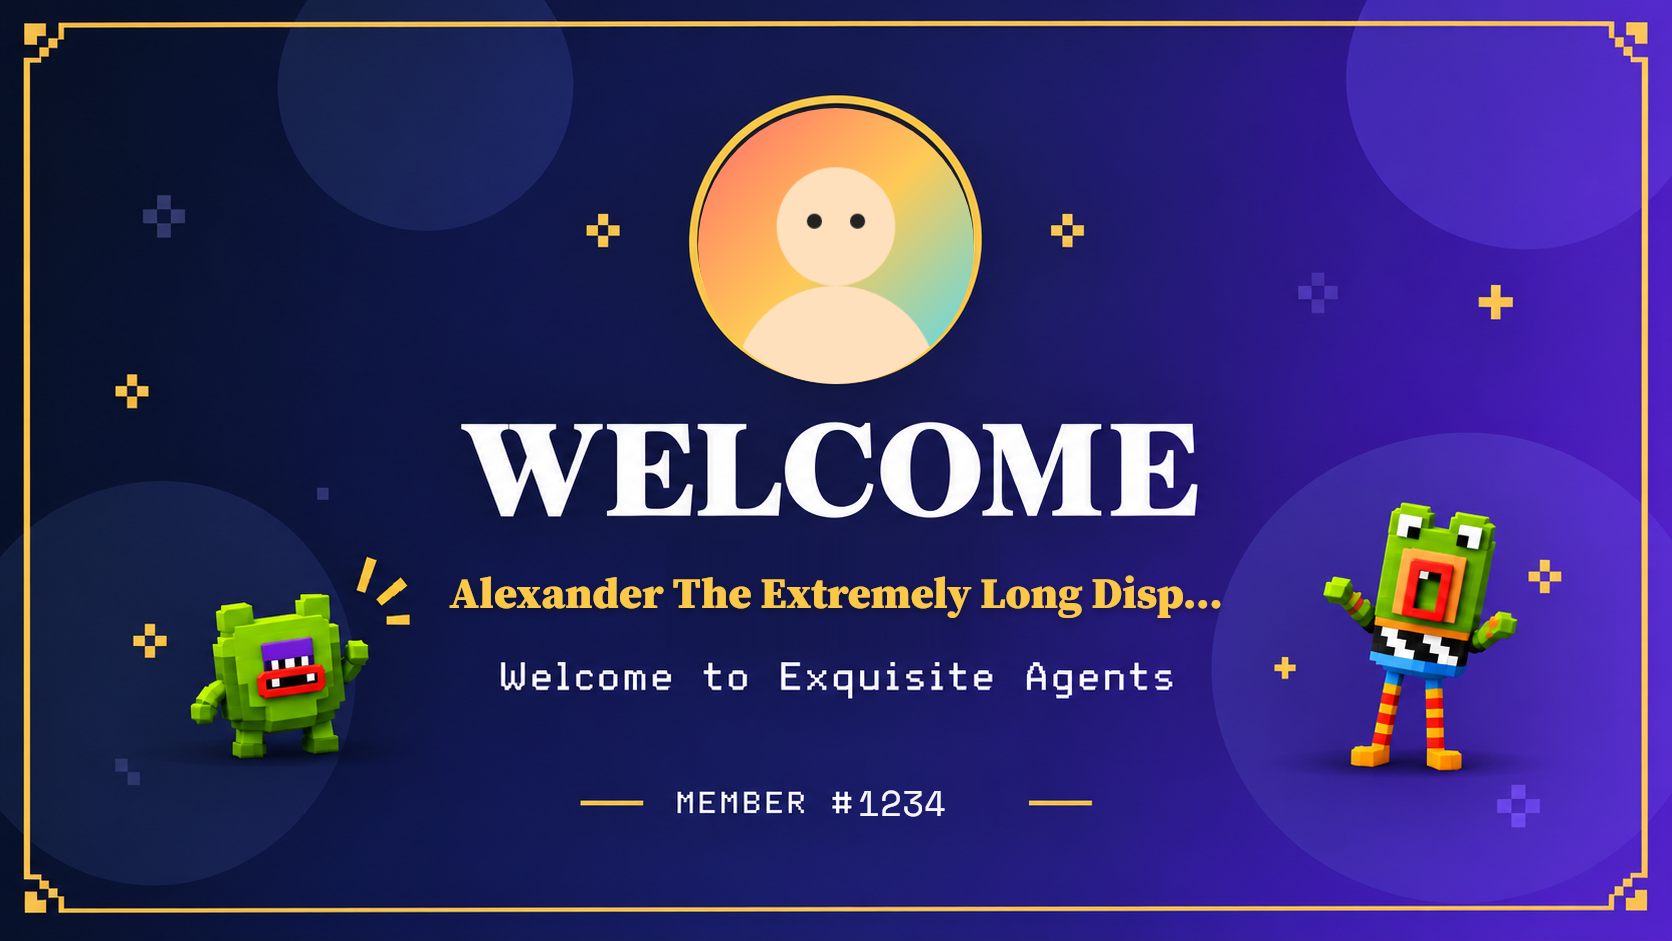
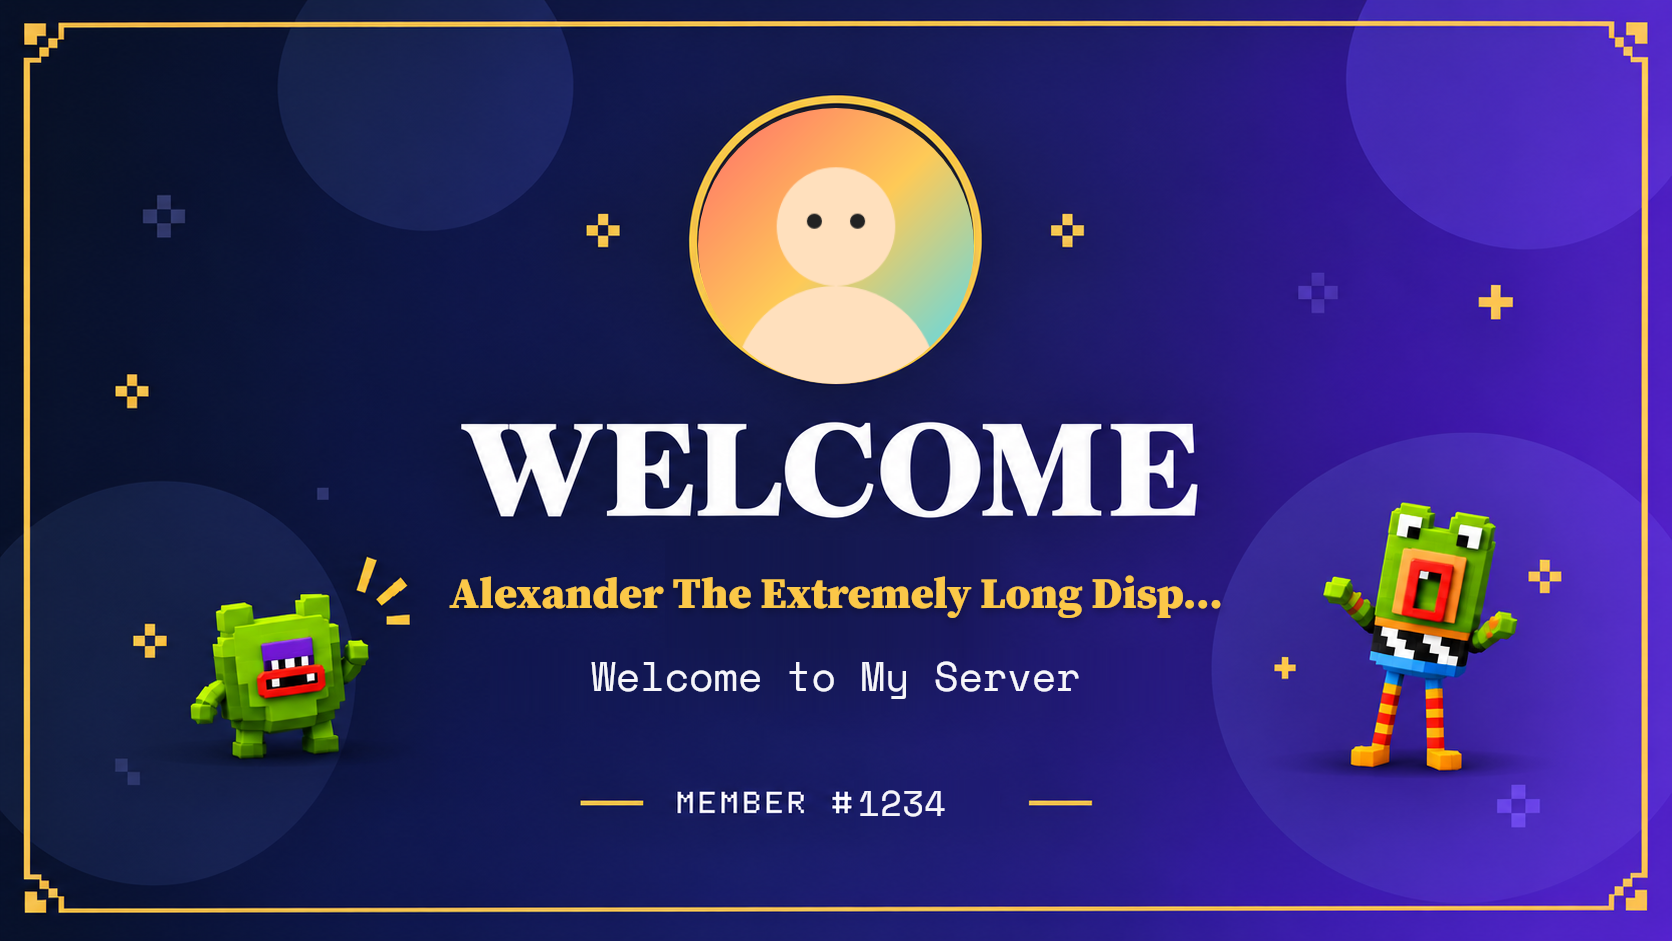
Generic Welcome Bot: remove Exquisite branding, dynamic template subtitle

Changed region(s): [[0.2799, 0.7088, 0.7153, 0.7396]]

diff --git a/test/test.js b/test/test.js
@@ -14,7 +14,7 @@ function mkChannel(perms = ALL) {
 function mkMember(id, ch, name = 'Rudra The Very Long Display Name That Should Be Truncated Nicely') {
   return { id, displayName: name, user: { username: 'rudra_' + id, bot: false, defaultAvatarURL: 'https://cdn.discordapp.com/embed/avatars/0.png' },
     displayAvatarURL: () => `https://cdn.discordapp.com/avatars/${id}/x.png?size=256`,
-    guild: { id: 'g1', name: 'Exquisite', memberCount: 1234, members: { me: {} },
+    guild: { id: 'g1', name: 'Test Server', memberCount: 1234, members: { me: {} },
       channels: { cache: new Map([[ch.id, ch]]), fetch: async () => null } } };
 }
 const avatarFetcher = async () => { const c = createCanvas(256, 256); const x = c.getContext('2d'); x.fillStyle = '#e11d48'; x.fillRect(0, 0, 256, 256); return c.toBuffer('image/png'); };
@@ -27,7 +27,7 @@ let pass = 0; const t = async (n, f) => { await f(); pass++; console.log('✔', 
   await t('mention + placeholders', async () => {
     const ch = mkChannel(); const r = await handleJoin(mkMember('111', ch), cfg, { logger: quiet, fetcher: avatarFetcher, ...aiNull });
     assert(r.sent); assert.strictEqual(r.imageKind, 'template'); const p = ch.sent[0];
-    assert(p.content.startsWith('Welcome <@111>!')); assert(p.content.includes('**Exquisite**')); assert(p.content.includes('#1234'));
+    assert(p.content.startsWith('Welcome <@111>!')); assert(p.content.includes('**Test Server**')); assert(p.content.includes('#1234'));
     assert(!/\{\w+\}/.test(p.content)); assert.deepStrictEqual(p.allowedMentions.users, ['111']);
     assert.strictEqual(p.files[0].name, 'welcome.png');
     const buf = p.files[0].attachment; assert(buf.subarray(1, 4).toString() === 'PNG');

diff --git a/src/config.js b/src/config.js
@@ -8,8 +8,8 @@ const DEFAULTS = {
   ai: { enabled: true, dailyLimit: 0, scene: 'ai/scene.jpg', crop: { x: 684, y: 0, w: 512, h: 512 }, box: { x: 815, y: 85, w: 250, h: 265 }, timeoutMs: 25000 },
   image: {
     enabled: true, background: 'assets/template.png', fallbackBackground: 'assets/background.png',
-    template: {"avatar": {"x": 836, "y": 246, "r": 138, "placeholderColor": "#5865F2"}, "name": {"x": 836, "y": 592, "maxWidth": 780, "fontSize": 92, "minFontSize": 44, "color": "#FBC848", "font": "WelcomeSerif, serif", "fontWeight": "bold"}, "count": {"x": 858, "y": 816, "fontSize": 36, "color": "#F6F5FA", "font": "WelcomeMono, monospace", "maxWidth": 160}}, showAvatar: true, showName: true,
-    title: 'WELCOME', subtitle: 'to {server_name}',
+    template: {"avatar": {"x": 836, "y": 246, "r": 138, "placeholderColor": "#5865F2"}, "name": {"x": 836, "y": 592, "maxWidth": 780, "fontSize": 92, "minFontSize": 44, "color": "#FBC848", "font": "WelcomeSerif, serif", "fontWeight": "bold"}, "count": {"x": 858, "y": 816, "fontSize": 36, "color": "#F6F5FA", "font": "WelcomeMono, monospace", "maxWidth": 160}, "subtitle": {"x": 836, "y": 691, "fontSize": 40, "color": "#F6F6FA", "font": "WelcomeMono, monospace", "maxWidth": 900}}, showAvatar: true, showName: true,
+    title: 'WELCOME', subtitle: 'Welcome to {server_name}',
     colors: { title: '#FFFFFF', name: '#FFD166', subtitle: '#D0D4E8', avatarRing: '#FFD166' },
     font: 'sans-serif'
   }

diff --git a/scripts/samples.js b/scripts/samples.js
@@ -5,4 +5,4 @@ g.addColorStop(0,'#ff6b6b');g.addColorStop(.5,'#feca57');g.addColorStop(1,'#48db
 x.fillStyle='#ffe0bd';x.beginPath();x.arc(128,110,55,0,7);x.fill();x.beginPath();x.arc(128,260,95,0,7);x.fill();
 x.fillStyle='#222';x.beginPath();x.arc(108,105,7,0,7);x.arc(148,105,7,0,7);x.fill();return c.toBuffer('image/png');};
 (async()=>{const cfg=loadConfig();for(const [f,n] of [['sample-welcome.png','Amir'],['sample-welcome-long.png','Alexander The Extremely Long Display Name Collector 🎨']])
-fs.writeFileSync(path.join(__dirname,'..',f),await renderWelcome({displayName:n,memberCount:1234,avatarUrls:['x'],config:cfg.image,fetcher}));console.log('ok')})();
+fs.writeFileSync(path.join(__dirname,'..',f),await renderWelcome({displayName:n,memberCount:1234,avatarUrls:['x'],config:{...cfg.image,subtitle:cfg.image.subtitle.replace('{server_name}','My Server')},fetcher}));console.log('ok')})();

diff --git a/src/image.js b/src/image.js
@@ -60,6 +60,13 @@ async function renderTemplate(opts, bgPath, fetcher) {
     ctx.fillText(truncate(ctx, opts.displayName, n.maxWidth), n.x, n.y);
     ctx.shadowColor = 'transparent'; ctx.shadowBlur = 0; ctx.shadowOffsetY = 0;
   }
+  const st = t.subtitle;
+  if (st && opts.config.subtitle) {
+    ctx.textAlign = 'center'; ctx.textBaseline = 'alphabetic'; ctx.fillStyle = st.color || '#F6F6FA';
+    let size = st.fontSize || 40; const setF = () => { ctx.font = `${size}px ${st.font || 'WelcomeMono, monospace'}`; }; setF();
+    while (size > 20 && ctx.measureText(opts.config.subtitle).width > (st.maxWidth || 900)) { size -= 2; setF(); }
+    ctx.fillText(opts.config.subtitle, st.x, st.y);
+  }
   const c = t.count;
   if (c && opts.memberCount != null) {
     ctx.textAlign = 'left'; ctx.textBaseline = 'alphabetic'; ctx.fillStyle = c.color || '#F6F5FA';

diff --git a/README.md b/README.md
@@ -1,4 +1,4 @@
-# Exquisite Welcome Bot
+# Welcome Bot
 
 When someone joins your server, the bot posts a welcome message with an image in your welcome channel.
 
@@ -10,8 +10,8 @@ When someone joins your server, the bot posts a welcome message with an image in
 ## Quick start (Hinglish)
 
 ```bash
-git clone https://github.com/amir64564/exquisite-welcome-bot.git
-cd exquisite-welcome-bot
+git clone https://github.com/amir64564/welcome-bot.git
+cd welcome-bot
 npm install
 cp .env.example .env      # ab .env kholo aur values bharo
 npm start
@@ -37,7 +37,7 @@ Node.js 18+ chahiye. Ek hi jagah bot chalao, warna har join pe do welcome aayeng
 | `preview` | Shows the welcome only to you, using the same AI → template flow |
 | `show` | Shows current settings |
 
-Example message: `Hey {user_mention} Welcome To EXQUISITE.\nThe World Of Art 🎨 & Collection 🖼`
+Example message: `Hey {user_mention} Welcome to {server_name}!\nEnjoy your stay 🎉`
 
 ## AI providers (`.env`)
 
@@ -52,7 +52,7 @@ Test AI alone: `node ai/scene-edit.js path/to/avatar.png out.png`
 - **Scene image:** replace `ai/scene.jpg`. Then set in `config.json` → `ai`:
   - `crop` – a square area (x, y, w, h in pixels) that contains the seesaw character; this part is sent to Cloudflare and blended back.
   - `box` – the tight box around the character (used with OpenRouter full-scene edits).
-- **Template:** replace `assets/template.png`; avatar/name/member-number positions, colours and font sizes are in `config.json` → `image.template`. Text printed inside the picture (like "Welcome to Exquisite Agents") is part of the image, edit the image to change it.
+- **Template:** replace `assets/template.png`; avatar/name/member-number positions, colours and font sizes are in `config.json` → `image.template`. The line under your name is drawn from `image.subtitle` (default `Welcome to {server_name}`); its position/font/colour are in `image.template.subtitle`.
 - **Message:** `/welcome-config set-message` (or `message` in `config.json`).
 
 ## Dev
